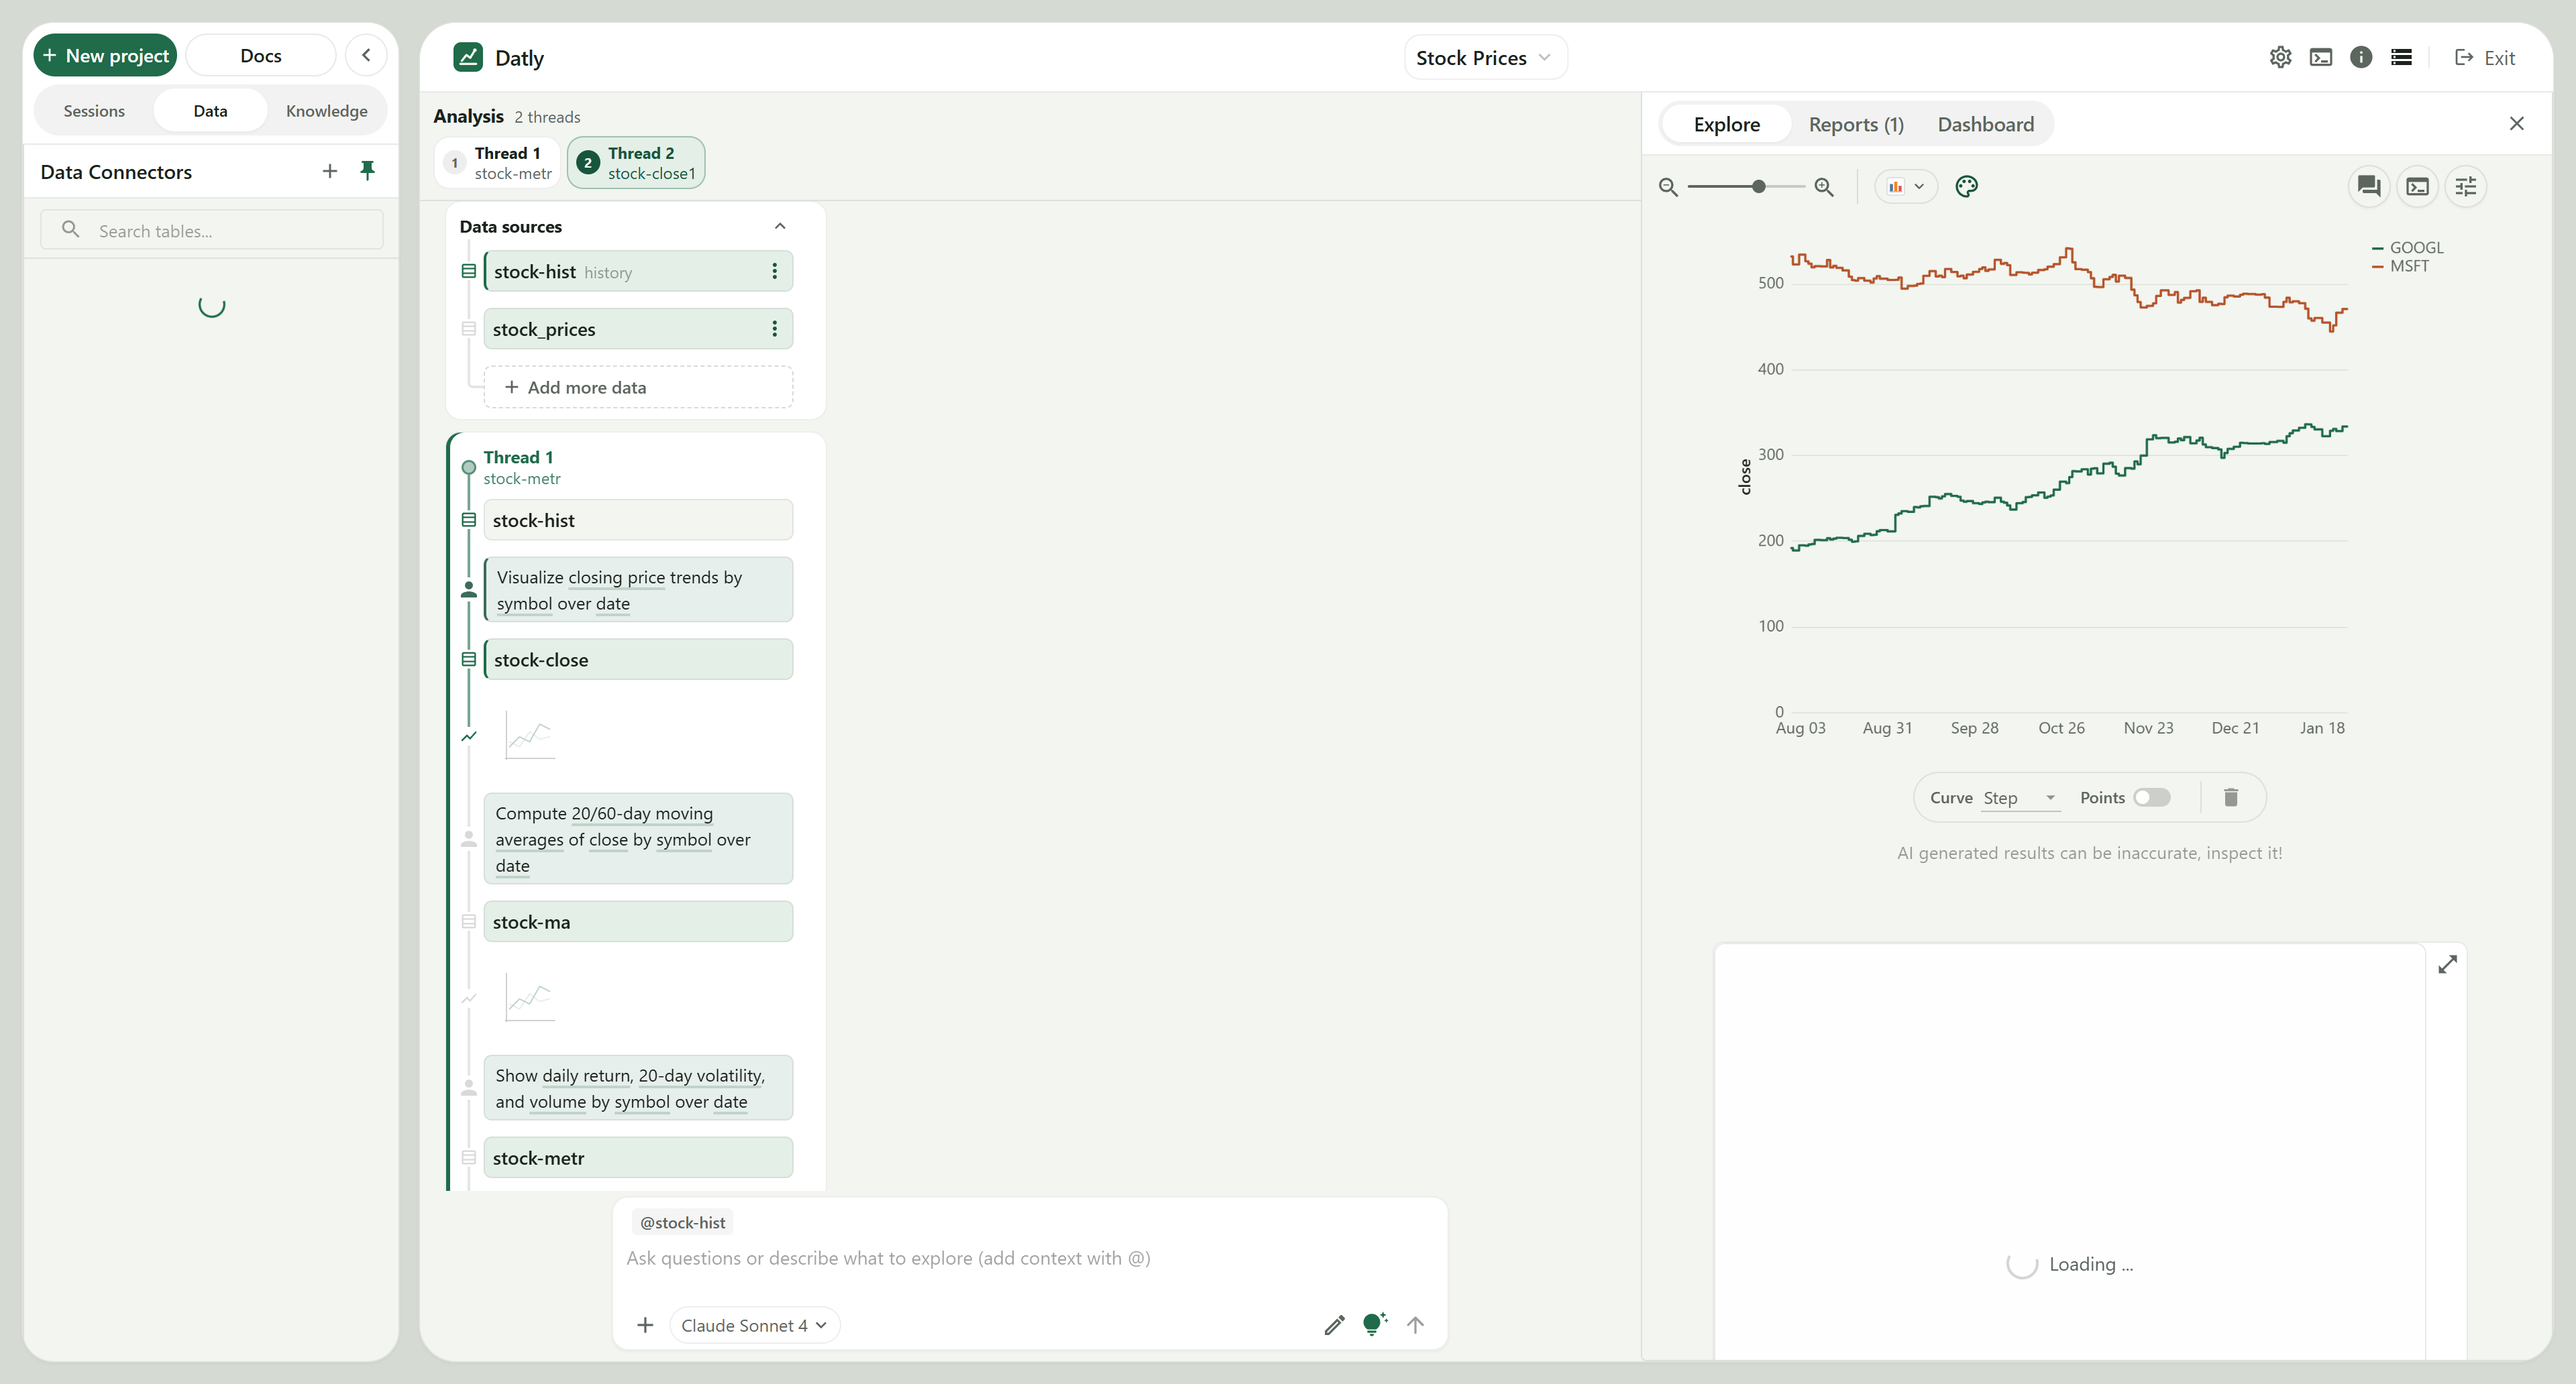
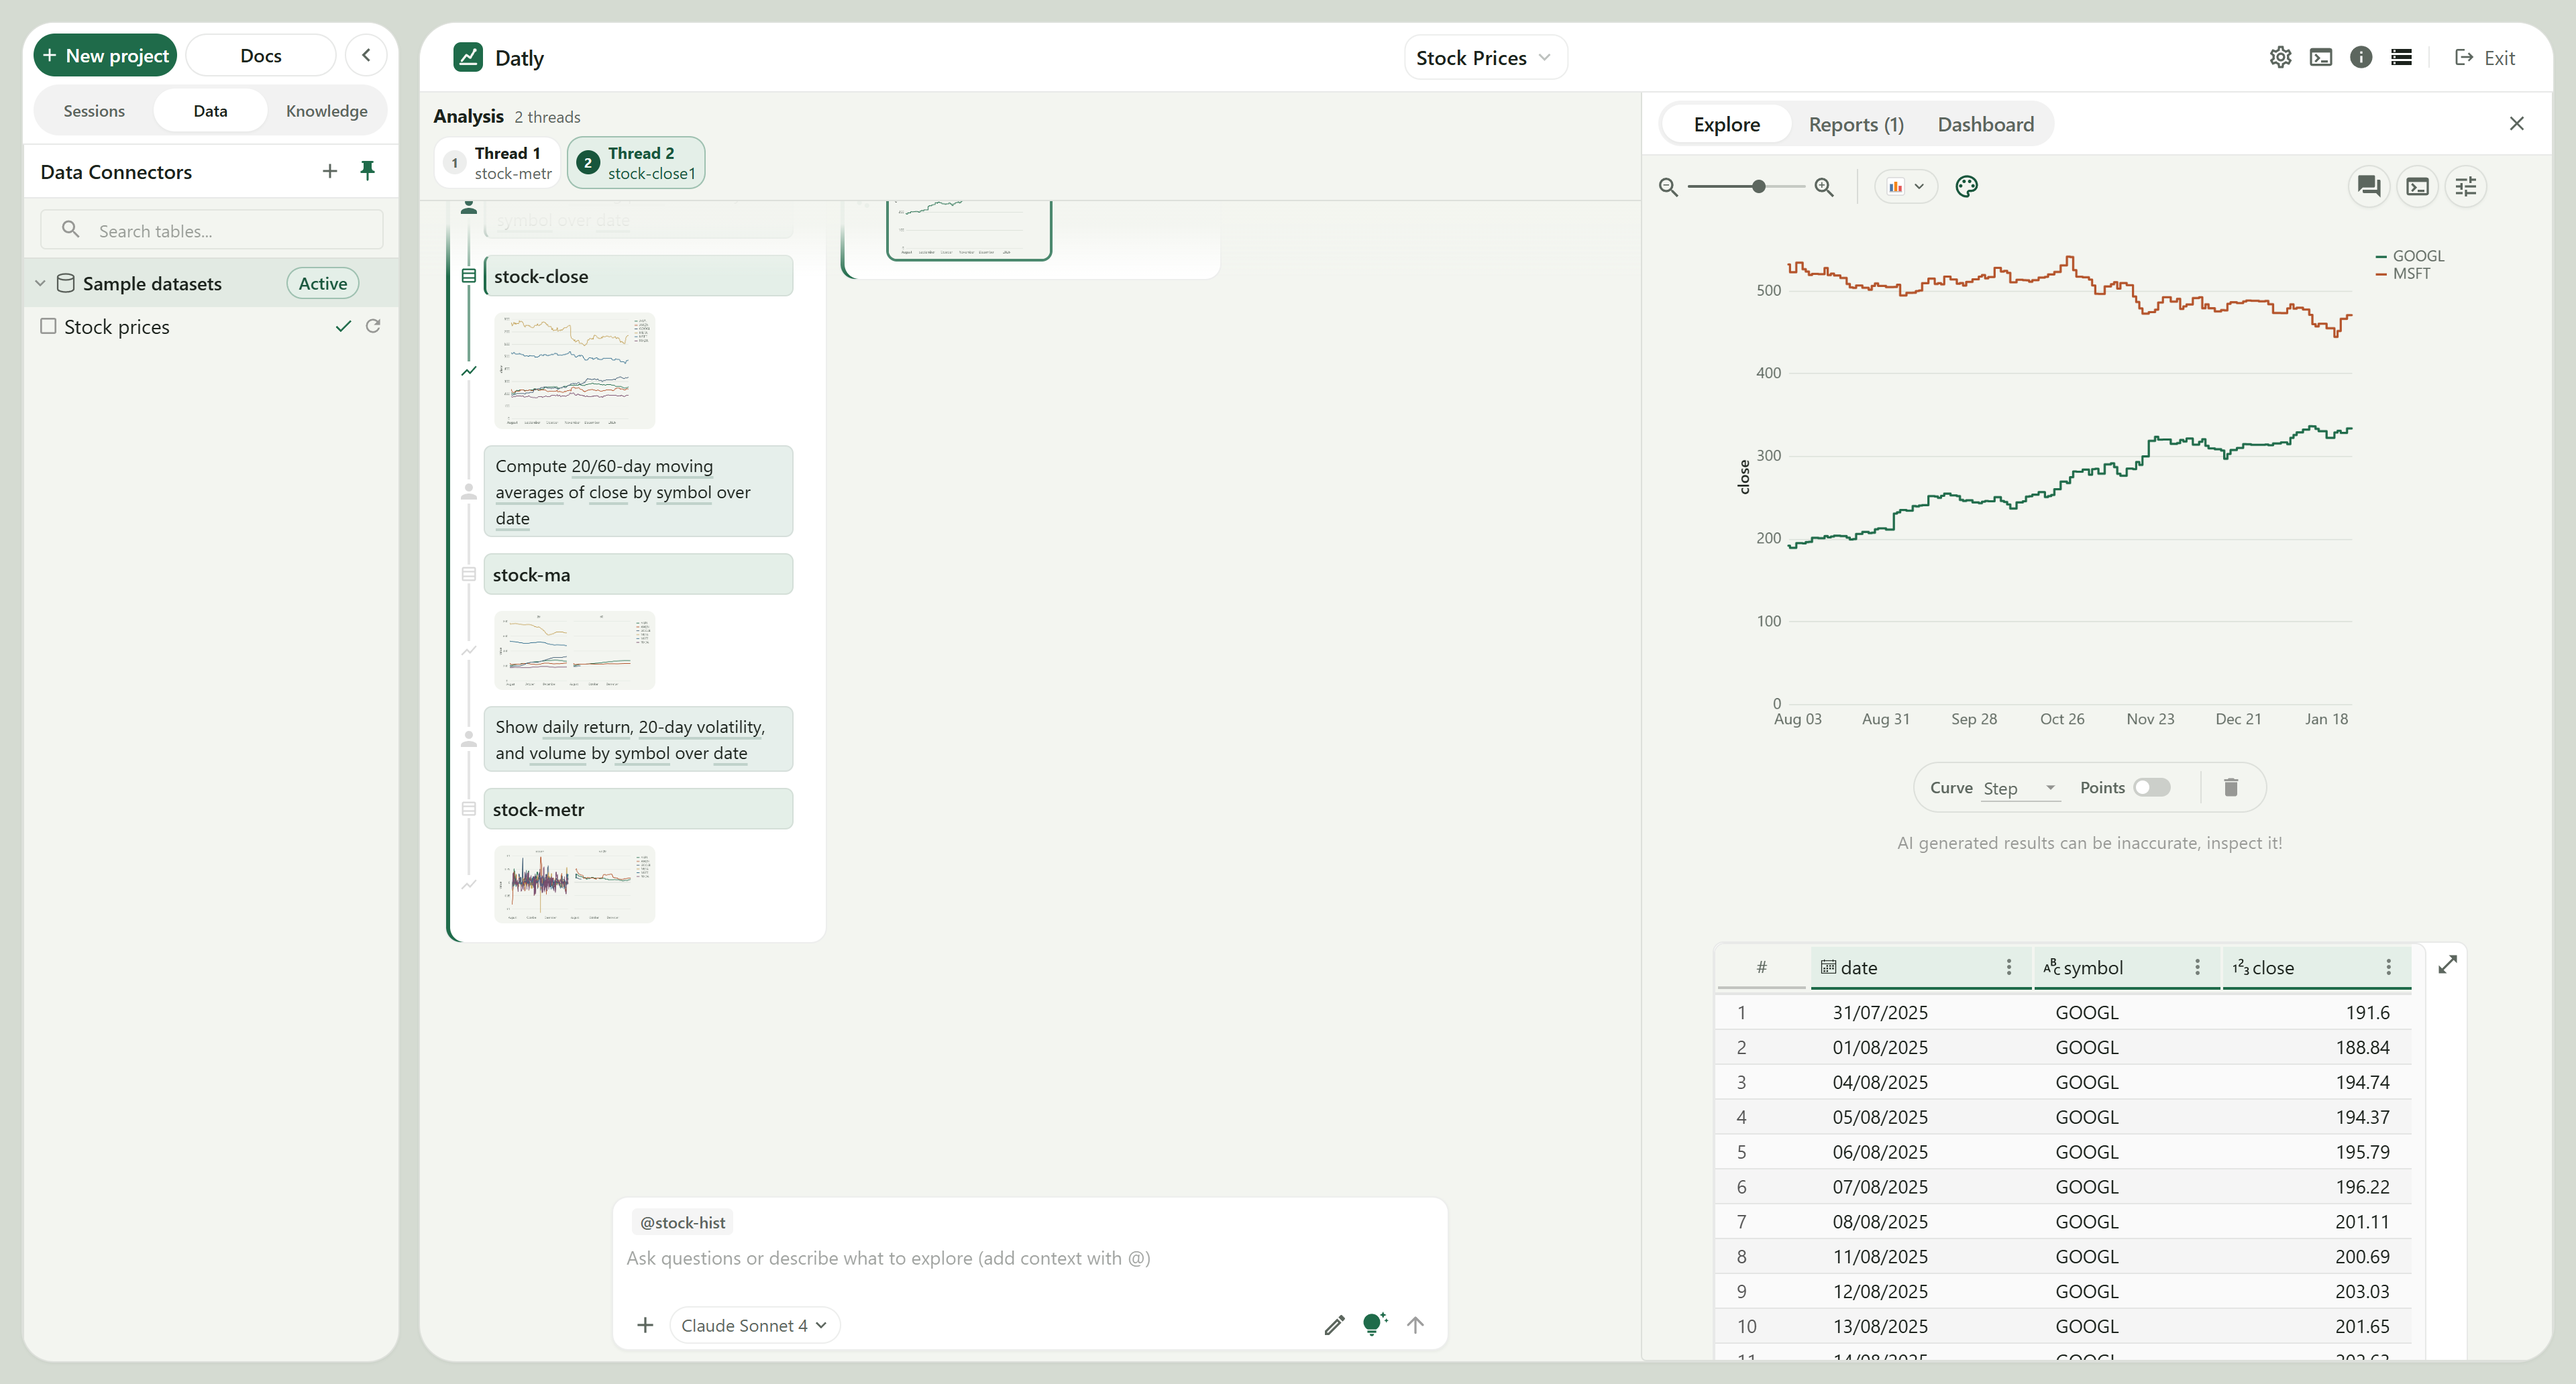
Rewrite the README as a walk through the app pictures.
Each screenshot is the running window, and the text under it names what is on that screen: the rail, the threads, the Explore chart, the table, and the documentation page.

diff --git a/README.md b/README.md
@@ -1,42 +1,84 @@
 # Datly
 
-Datly is a local workspace for looking at tables. Load a file or a sample, ask a question in plain language, and read the chart next to the rows it came from. Projects stay on this computer.
+Datly is a workspace for a table you already have. You load the rows, you write the question in ordinary language, and the chart opens beside the rows it was drawn from.
 
-![Datly workspace: stock prices, two analysis threads, and the explore canvas](docs/images/workspace.png)
+This page is the illustrated overview. The pictures are the running app. Each one is described underneath.
 
 ## About
 
-The window has three areas.
+A spreadsheet can hold the numbers and still hide the comparison. Datly keeps the question, the chart, and the table in one place. The project stays on this computer. A language model sees a small sample with the prompt, not a copy of the file uploaded to a hosted notebook.
 
-- **Project rail.** New project, Docs, Sessions, Data, and Knowledge. The arrow collapses the rail to icons, and the arrow on that rail opens it again.
-- **Analysis.** Each question becomes a thread: the words you asked, the chart, and the table behind it. The prompt sits at the bottom.
-- **Canvas.** Opens on the right when you look at a chart or a table. Explore, Reports, and Dashboard live on the canvas bar, with Close on the same row.
+The window is three regions. The left card is the project: a new workspace, the documentation, saved sessions, the tables, and the rules the agent should follow. The middle is the analysis. Each question becomes a thread, and the prompt that asks the next question stays at the bottom. The right side is the canvas. It appears when a chart or a table is opened, and it closes from the same bar that holds Explore, Reports, and Dashboard.
 
-The interface uses one typeface, Segoe UI, with Roboto Mono for code and identifiers. The mark is a forest-green tile with a rising line.
+The mark in the header is a forest-green tile with a rising line. The type is Segoe UI. Code and identifiers use Roboto Mono.
 
-Sample data ships with the app. **Stock prices** is 6,000 daily rows, 30 September 2024 through 28 September 2026, for 12 large US companies. Columns are date, symbol, company, sector, open, high, low, close, and volume. Prices are adjusted for splits. The source is Yahoo Finance.
+The sample that ships with the app is **Stock prices**: 6,000 daily rows, 30 September 2024 through 28 September 2026, twelve large US companies. The columns are date, symbol, company, sector, open, high, low, close, and volume. Prices are adjusted for splits, so a line does not jump when the shares split. The source is Yahoo Finance.
 
-## Documentation
+## The window, as it is open on a stock project
 
-The in-app guide is **Docs**, on the left rail and in the top bar outside a workspace.
+The picture is one session, named Stock Prices. Sample datasets is connected, Stock prices is ticked as loaded, two questions have already been asked, and the canvas is showing the second of them.
 
-![Documentation page, with About and the guide sections](docs/images/documentation.png)
+![The Datly window: project rail, two analysis threads, and the Explore canvas for Alphabet and Microsoft](docs/images/workspace.png)
 
-The guide covers:
+On the left, **+ New project** is the green pill. It clears the screen and starts an empty workspace. The session you leave is not deleted. It remains under Sessions. **Docs** opens the guide. The arrow to the right of Docs collapses this card to a thin rail of icons, and the arrow on that rail opens the card again.
 
-1. **Start a project.** New project clears the screen and leaves the previous session in Sessions.
-2. **The three areas.** Threads in the middle, the canvas on the right, the project name in the top bar.
-3. **Load a table.** Open Data, expand Sample datasets, select Stock prices, and choose Load. The plus on the rail adds your own file. The plus beside Data Connectors adds a database.
-4. **Ask a question.** Name the columns. For the stock table: show closing price by date for Apple and Microsoft. Pick the model on the left of the prompt, then send.
-5. **Canvas.** Explore is the plot and the table. Curve, Step, and Points change the mark. Reports keeps writing with the chart. Dashboard collects pinned charts.
-6. **Tables.** Data health, search, and the grid are white. Quick chart and Download CSV sit under the rows.
-7. **Sessions.** Saved on this computer. Sort by recent edits, creation time, or name. New project does not delete the session you leave.
-8. **Knowledge.** Rules the agent follows on later questions.
-9. **What stays on this computer.** Connectors copy data into the local workspace. A language model receives small samples with the prompt, not the whole file.
+Under those buttons, **Sessions**, **Data**, and **Knowledge** switch the body of the card. Data is the one selected here. The title is Data Connectors. The plus beside that title adds a database connection. The pin keeps the card open. Search filters the list. **Sample datasets** is marked Active. Under it, **Stock prices** has a tick, which means those rows are already in this project. A circle beside the tick refreshes the table.
 
-## Run
+The middle begins with the Datly mark and the name. **Stock Prices**, in the top bar, is the project menu. That is where the workspace is renamed. **Analysis** says there are two threads. Thread 1 is `stock-metr`. Thread 2, drawn in green, is `stock-close1`, and that is the thread the canvas is showing.
 
-Requirements: Python 3.11+, Node.js 20+, Yarn, and [uv](https://docs.astral.sh/uv/) or pip.
+Thread 1 is the column of cards. `stock-close` is a small chart of several symbols. Under it is the question that asked for 20-day and 60-day moving averages of close, by symbol. `stock-ma` is that result. The next question asked for daily return, 20-day volatility, and volume. `stock-metr` is the chart of those series, the noisy lines at the bottom of the column. A thread is the record of one question: the words, the table it used, and the chart that came back.
+
+The white box at the bottom of the middle is the prompt. It is aimed at `@stock-hist`, the history table. The placeholder reads “Ask questions or describe what to explore.” The model on this session is Claude Sonnet 4. The arrow sends the question. The pencil and the bulb beside it are the other actions on that box. There is no fade painted behind the prompt. The sage field of the window shows through.
+
+The right side is the canvas. **Explore** is selected. **Reports (1)** is the written report already saved for this project. **Dashboard** is where charts are pinned. The cross on that same bar closes the canvas, and the threads then use the full width. The plot is closing price. The green line is GOOGL. It starts near 190 in early August and finishes near 330 in January. The orange line is MSFT. It stays between about 450 and 530, with a high in late October and a lower close in January. The dates along the bottom run from 3 August to 18 January. **Curve**, **Step**, and **Points** change the mark. The bin deletes the focused chart. Under the plot, the line “AI generated results can be inaccurate, inspect it!” is the reminder to read the table, not only the line.
+
+The table under the chart is the rows the line was drawn from. The columns in view are the row number, date, symbol, and close. The first rows are GOOGL: 31 July 2025 at 191.6, 1 August at 188.84, then 194.74, 194.37, 195.79, and on upward through December. The header of that grid is white, the same as the card, so it sits clear of the sage field. Quick chart and Download CSV sit under the rows when the table is the thing in focus, so they do not cover the cells.
+
+## The same canvas, closer
+
+This is the right-hand side of that window, cropped so the plot and the grid can be read.
+
+![Explore canvas: GOOGL rising, MSFT near 500, and the close table underneath](docs/images/canvas.png)
+
+Explore is the view for checking a result. The plot is on top. The table is on the bottom. They are the same answer. GOOGL’s close on 31 July 2025 is 191.6, and the green line leaves the axis at about that height. By 13 August the table shows 201.65, and the line has stepped up. MSFT is the orange line that never comes down to meet it. The legend is at the top right of the plot.
+
+Curve is the smooth join between points. Step would draw the close as a staircase, one value until the next date. Points would mark each day without insisting on a line. The switch beside Points turns that layer on. The dates are trading days, so the axis skips weekends. The table is scrolled to the start of the series. Later rows continue the same three columns for both symbols.
+
+A report, the item counted as Reports (1), keeps writing next to a chart. The dashboard is the place those charts are pinned when more than one should stay visible. Closing the canvas does not delete the thread. The chart card remains in the middle, and the canvas can be opened from it again.
+
+## The guide
+
+Docs is a page in the app, not a separate site. It opens from the left rail, and from the top bar when you are not inside a workspace.
+
+![The documentation page, opened from Docs, beginning with how to start a project](docs/images/documentation.png)
+
+The mark and the word Documentation are at the top. The sentence under them is the order of the page: open a project, bring in a table, ask for a chart, read the result. **Open workspace** returns to the window in the first picture. **Watch a short tour** plays the overview video further down the page.
+
+The pills are the sections, in the order a first session uses them.
+
+**Start a project.** New project clears what is on screen. The session you were in remains under Sessions. The arrow beside Docs collapses the rail. On the thin rail the arrow expands it. The folder is Sessions, the database is Data, the bulb is Knowledge, and the plus adds a file.
+
+**The three areas.** The middle holds the threads. The prompt stays at the bottom of that area. The canvas is the right side, and it is absent until a chart or a table is opened. The project name in the top bar is the rename menu.
+
+**Load a table.** Data, then Sample datasets, then Stock prices, then Load. The page states the size of that file: 6,000 rows, 30 September 2024 through 28 September 2026, twelve companies, and the column list above. A file of your own uses the plus on the rail, or Add more data inside a thread. A database uses the plus beside Data Connectors.
+
+**Ask a question.** The model menu is the control on the left of the prompt. The arrow sends. A question that names the columns is the one the page suggests for this table: closing price by date for Apple and Microsoft. That is the question behind the orange and green lines in the first picture. A follow-up is typed into the same prompt. With the canvas open, the threads sit in two columns so the cards are not cut off at the edge.
+
+**Canvas.** Explore, Reports, and Dashboard, and Close on that bar. Curve, Step, and Points are the mark controls in the picture above.
+
+**Tables.** Data health, search, and the grid are white. Search filters the rows on screen. Download CSV saves the table you are viewing.
+
+**Sessions.** One session is one workspace: its tables, threads, charts, and reports, stored on this computer. The list sorts by recent edits, by creation time, or by name.
+
+**Knowledge.** Rules for the agent, opened from the bulb. They apply to later questions in that workspace.
+
+**What stays on this computer.** Connectors copy data into the local workspace. The model receives a sample with the prompt.
+
+Under the sections, the tour video plays in the page.
+
+## How to run
+
+Python 3.11 or newer, Node.js 20 or newer, Yarn, and [uv](https://docs.astral.sh/uv/) or pip.
 
 ```bash
 yarn
@@ -45,15 +87,13 @@ uv sync
 uv run data_formulator
 ```
 
-Frontend development, with the backend in one terminal and Vite in another:
+For interface work, run the API in one terminal and Vite in another.
 
 ```bash
 uv run data_formulator --dev
 yarn start
 ```
 
-Then open http://localhost:5173.
+Open http://localhost:5173. On Windows, `local_server.bat` starts the local server. On Unix, `./local_server.sh`.
 
-On Windows, `local_server.bat` starts the local server. On Unix, `./local_server.sh`.
-
-Copy `.env.template` to `.env` to set language-model keys and server options. Do not commit `.env`.
+Copy `.env.template` to `.env` for language-model keys and server options. `.env` is not part of this repository.
